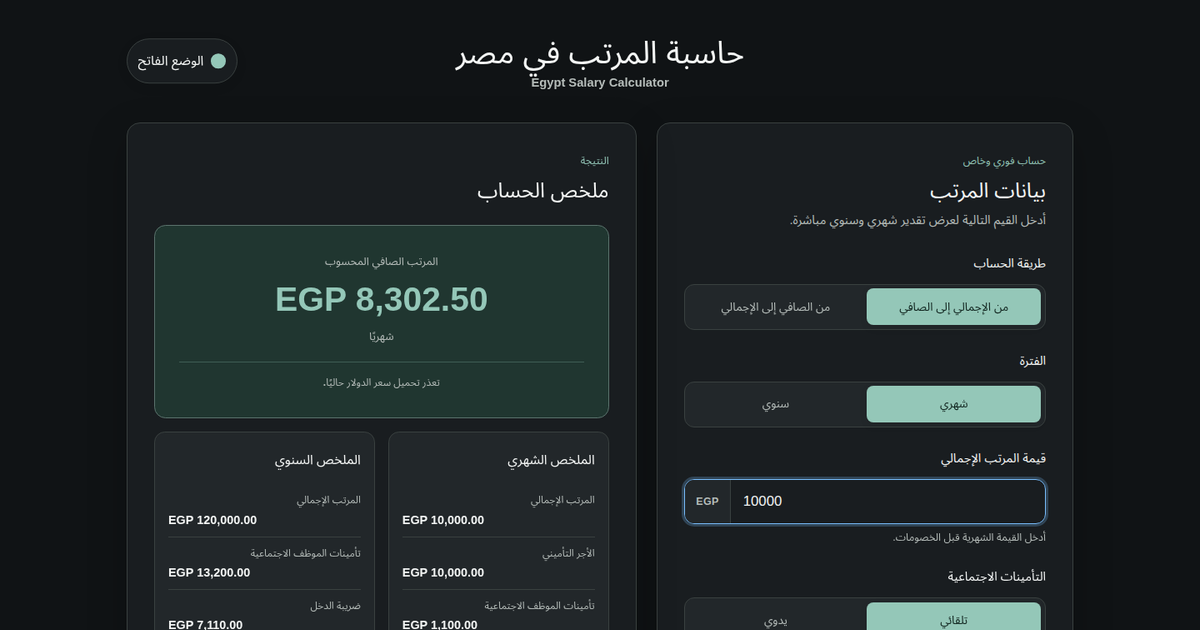
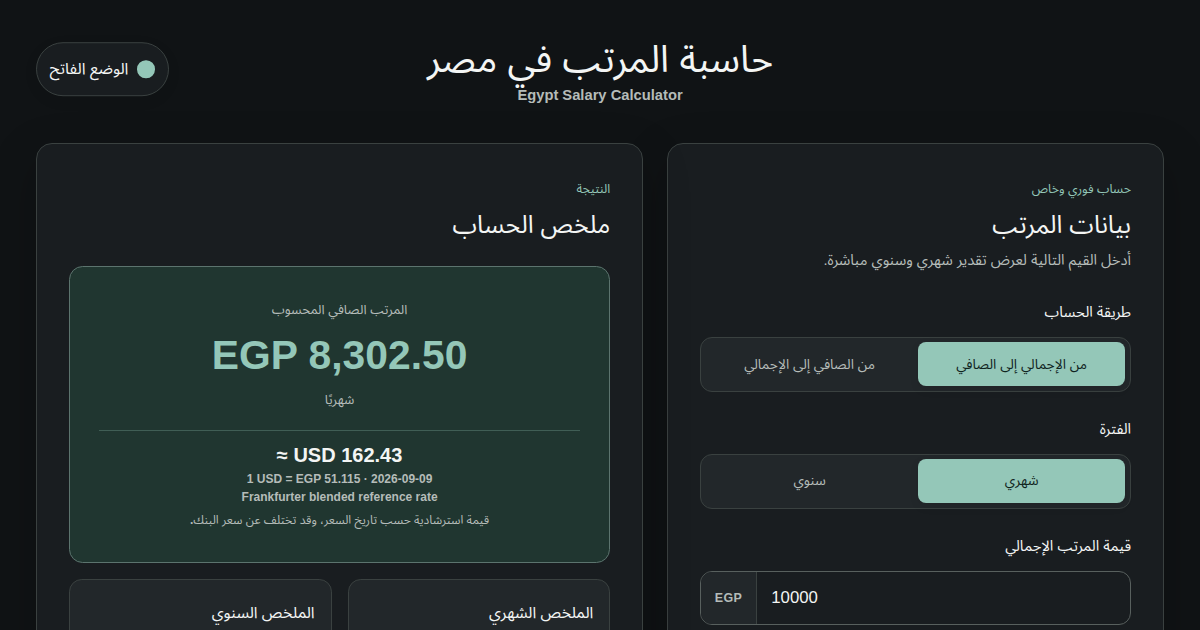
Show the working USD conversion in project and social screenshots

diff --git a/projects/egypt-salary-calculator/index.html b/projects/egypt-salary-calculator/index.html
@@ -56,7 +56,7 @@
   </header>
   <main id="main-content" class="main-inner" tabindex="-1"><header class="page-heading"><p class="eyebrow">Case study / Application delivery</p><h1>Egypt Salary Calculator<span class="gold">.</span></h1><p class="lede">An Arabic-first React application that makes salary estimates easier to inspect, with 80 verified tests and static delivery through GitHub Pages.</p><div class="case-meta"><span><strong>Status:</strong> 80 tests passing; deployed to GitHub Pages</span><span><strong>Role:</strong> Design, application &amp; delivery</span><span><strong>Reviewed:</strong> 9 Sep 2026</span></div><div class="actions"><a class="button button-primary" href="https://github.com/yossefseit/egypt-salary-calculator">View code <svg class="icon" width="24" height="24" viewBox="0 0 24 24" aria-hidden="true" focusable="false"><path d="M9 20c-5 1-5-3-7-3m14 6v-4a4 4 0 0 0-1-3c4-.5 6-2 6-6 0-2-1-3-2-4 .2-1 .2-3-.3-4-2 0-4 1-5 2a14 14 0 0 0-4 0C8 3 6 2 4 2c-.5 1-.5 3 0 4-1 1-2 2-2 4 0 4 2 5.5 6 6-.8 1-1 2-1 3v4"/></svg></a><a class="button" href="https://yossefseit.github.io/egypt-salary-calculator/">Open demo <svg class="icon" width="24" height="24" viewBox="0 0 24 24" aria-hidden="true" focusable="false"><path d="M14 3h7v7m-1-6-9 9M10 4H4v16h16v-6"/></svg></a><a class="text-action" href="https://github.com/yossefseit/egypt-salary-calculator/actions/runs/34402180941">Pages deployment <svg class="icon" width="24" height="24" viewBox="0 0 24 24" aria-hidden="true" focusable="false"><path d="M14 3h7v7m-1-6-9 9M10 4H4v16h16v-6"/></svg></a></div></header>
 <div class="case-layout"><article class="case-body">
-<section id="problem"><p class="eyebrow">01 / Problem</p><h2>Make the calculation understandable.</h2><p>Salary conversion is often presented as one unexplained number. This project exposes the implemented tax, insurance and deduction components in an Arabic right-to-left interface, with gross-to-net and net-to-gross modes and monthly or annual periods.</p><p>The delivery task is equally concrete: build the TypeScript application at its project path, run the sensitive calculations and interface checks, and publish only the resulting static bundle through GitHub Pages.</p><figure class="case-screenshot"><img src="/assets/salary-calculator.webp" width="1440" height="1301" alt="Local production build of the Arabic Egypt Salary Calculator, showing salary inputs and an itemized result in dark mode."><figcaption>Local production build captured during this review. The core EGP salary engine works without the optional reference-rate service.</figcaption></figure></section>
+<section id="problem"><p class="eyebrow">01 / Problem</p><h2>Make the calculation understandable.</h2><p>Salary conversion is often presented as one unexplained number. This project exposes the implemented tax, insurance and deduction components in an Arabic right-to-left interface, with gross-to-net and net-to-gross modes and monthly or annual periods.</p><p>The delivery task is equally concrete: build the TypeScript application at its project path, run the sensitive calculations and interface checks, and publish only the resulting static bundle through GitHub Pages.</p><figure class="case-screenshot"><img src="/assets/salary-calculator.png" width="1440" height="1301" alt="Live Arabic Egypt Salary Calculator showing salary inputs, an itemized EGP result and the dated USD conversion in dark mode."><figcaption>Production release captured on 9 September 2026. The core EGP salary engine works without the optional reference-rate service.</figcaption></figure></section>
 <section id="architecture"><p class="eyebrow">02 / Architecture</p><h2>Local calculations. Static delivery. Reference rates.</h2><figure class="architecture-figure"><a href="/assets/salary-architecture.svg"><img src="/assets/salary-architecture.svg" width="1200" height="760" loading="lazy" alt="GitHub Actions validates and builds the React application, uploads the dist directory as a Pages artifact and deploys it to the project site. Salary calculations run locally in the browser, which fetches a dated USD/EGP rate directly from Frankfurter. A separately hosted .NET adapter can be selected explicitly but is not required by Pages."></a><figcaption>The Pages bundle sends no salary values to a server. A fixed browser request fetches the USD/EGP reference rate; source and rate date stay visible beside the conversion. Select the diagram for a scalable view.</figcaption></figure><div class="diagram-details three-column"><article class="panel"><p class="meta">Client</p><h3>React + TypeScript</h3><p>Vite builds for the <code>/egypt-salary-calculator/</code> project path. A pure domain module calculates locally and uses bounded binary search for net-to-gross estimates.</p></article><article class="panel"><p class="meta">Delivery</p><h3>GitHub Pages artifact</h3><p>The workflow runs the tests and build, uploads <code>dist/</code>, then uses Pages deployment permissions and a short-lived OIDC token. No Azure deployment credential is required.</p></article><article class="panel"><p class="meta">Reference rate</p><h3>Direct browser request</h3><p>Frankfurter supplies the dated USD/EGP reference rate through its public API. The client validates the currency pair, positive rate and date, and limits requests to eight seconds. The optional .NET adapter remains separate.</p></article></div></section>
 <section id="implementation"><p class="eyebrow">03 / Implementation</p><h2>Keep policy rules apart from interface state.</h2><p>The domain module contains progressive brackets, exemptions, insurance limits, period conversion and a documented rules effective date. The React layer handles validation, display, theme persistence and the optional exchange-rate state.</p><h3>Delivery path</h3><pre tabindex="0"><code>push to main
   → locked dependency install

diff --git a/content/salary.html b/content/salary.html
@@ -1,6 +1,6 @@
 <header class="page-heading"><p class="eyebrow">Case study / Application delivery</p><h1>Egypt Salary Calculator<span class="gold">.</span></h1><p class="lede">An Arabic-first React application that makes salary estimates easier to inspect, with 80 verified tests and static delivery through GitHub Pages.</p><div class="case-meta"><span><strong>Status:</strong> 80 tests passing; deployed to GitHub Pages</span><span><strong>Role:</strong> Design, application &amp; delivery</span><span><strong>Reviewed:</strong> 9 Sep 2026</span></div><div class="actions"><a class="button button-primary" href="https://github.com/yossefseit/egypt-salary-calculator">View code {{ICON:github}}</a><a class="button" href="https://yossefseit.github.io/egypt-salary-calculator/">Open demo {{ICON:external}}</a><a class="text-action" href="https://github.com/yossefseit/egypt-salary-calculator/actions/runs/34402180941">Pages deployment {{ICON:external}}</a></div></header>
 <div class="case-layout"><article class="case-body">
-<section id="problem"><p class="eyebrow">01 / Problem</p><h2>Make the calculation understandable.</h2><p>Salary conversion is often presented as one unexplained number. This project exposes the implemented tax, insurance and deduction components in an Arabic right-to-left interface, with gross-to-net and net-to-gross modes and monthly or annual periods.</p><p>The delivery task is equally concrete: build the TypeScript application at its project path, run the sensitive calculations and interface checks, and publish only the resulting static bundle through GitHub Pages.</p><figure class="case-screenshot"><img src="/assets/salary-calculator.webp" width="1440" height="1301" alt="Local production build of the Arabic Egypt Salary Calculator, showing salary inputs and an itemized result in dark mode."><figcaption>Local production build captured during this review. The core EGP salary engine works without the optional reference-rate service.</figcaption></figure></section>
+<section id="problem"><p class="eyebrow">01 / Problem</p><h2>Make the calculation understandable.</h2><p>Salary conversion is often presented as one unexplained number. This project exposes the implemented tax, insurance and deduction components in an Arabic right-to-left interface, with gross-to-net and net-to-gross modes and monthly or annual periods.</p><p>The delivery task is equally concrete: build the TypeScript application at its project path, run the sensitive calculations and interface checks, and publish only the resulting static bundle through GitHub Pages.</p><figure class="case-screenshot"><img src="/assets/salary-calculator.png" width="1440" height="1301" alt="Live Arabic Egypt Salary Calculator showing salary inputs, an itemized EGP result and the dated USD conversion in dark mode."><figcaption>Production release captured on 9 September 2026. The core EGP salary engine works without the optional reference-rate service.</figcaption></figure></section>
 <section id="architecture"><p class="eyebrow">02 / Architecture</p><h2>Local calculations. Static delivery. Reference rates.</h2><figure class="architecture-figure"><a href="/assets/salary-architecture.svg"><img src="/assets/salary-architecture.svg" width="1200" height="760" loading="lazy" alt="GitHub Actions validates and builds the React application, uploads the dist directory as a Pages artifact and deploys it to the project site. Salary calculations run locally in the browser, which fetches a dated USD/EGP rate directly from Frankfurter. A separately hosted .NET adapter can be selected explicitly but is not required by Pages."></a><figcaption>The Pages bundle sends no salary values to a server. A fixed browser request fetches the USD/EGP reference rate; source and rate date stay visible beside the conversion. Select the diagram for a scalable view.</figcaption></figure><div class="diagram-details three-column"><article class="panel"><p class="meta">Client</p><h3>React + TypeScript</h3><p>Vite builds for the <code>/egypt-salary-calculator/</code> project path. A pure domain module calculates locally and uses bounded binary search for net-to-gross estimates.</p></article><article class="panel"><p class="meta">Delivery</p><h3>GitHub Pages artifact</h3><p>The workflow runs the tests and build, uploads <code>dist/</code>, then uses Pages deployment permissions and a short-lived OIDC token. No Azure deployment credential is required.</p></article><article class="panel"><p class="meta">Reference rate</p><h3>Direct browser request</h3><p>Frankfurter supplies the dated USD/EGP reference rate through its public API. The client validates the currency pair, positive rate and date, and limits requests to eight seconds. The optional .NET adapter remains separate.</p></article></div></section>
 <section id="implementation"><p class="eyebrow">03 / Implementation</p><h2>Keep policy rules apart from interface state.</h2><p>The domain module contains progressive brackets, exemptions, insurance limits, period conversion and a documented rules effective date. The React layer handles validation, display, theme persistence and the optional exchange-rate state.</p><h3>Delivery path</h3><pre tabindex="0"><code>push to main
   → locked dependency install

diff --git a/index.html b/index.html
@@ -105,7 +105,7 @@
   <aside class="context-panel" aria-label="Current work and training"><img class="context-mark" src="/assets/favicon.svg" width="45" height="45" alt=""><div class="context-item"><span class="meta">In practice</span><strong>Electrolux Group</strong><p>IT Infrastructure Analyst<br>Factory &amp; office operations</p></div><div class="context-item"><span class="meta">In progress</span><strong>DevOps Engineering Diploma</strong><p>Route Academy<br>Aug 2026 → Feb 2027 expected</p></div></aside>
 </section>
 <section class="section" id="projects" aria-labelledby="selected-title"><div class="section-heading"><h2 id="selected-title"><span class="section-number">01 —</span>Selected engineering work</h2><a href="/projects/">View collection <svg class="icon" width="24" height="24" viewBox="0 0 24 24" aria-hidden="true" focusable="false"><path d="M4 12h16m-6-6 6 6-6 6"/></svg></a></div><div class="project-grid"><article class="project-card project-featured">
-  <div class="project-art"><img src="/assets/salary-calculator.webp" width="960" height="500" fetchpriority="high" alt="Local Egypt Salary Calculator application showing salary inputs and a calculated breakdown"></div>
+  <div class="project-art"><img src="/assets/salary-calculator.png" width="960" height="500" fetchpriority="high" alt="Live Egypt Salary Calculator showing EGP results and a dated USD reference conversion"></div>
   <div class="project-content"><p class="eyebrow">01 / Application delivery</p><h3>Egypt Salary Calculator</h3><p>Make gross-to-net salary calculations transparent, then ship a tested static application through GitHub Pages.</p><div class="stack"><span>React</span><span>TypeScript</span><span>GitHub Pages</span><span>GitHub Actions</span></div><span class="status">80 tests passing; deployed to GitHub Pages</span>
   <div class="project-links"><a href="/projects/egypt-salary-calculator/">Case study <svg class="icon" width="24" height="24" viewBox="0 0 24 24" aria-hidden="true" focusable="false"><path d="M4 12h16m-6-6 6 6-6 6"/></svg></a><a href="https://github.com/yossefseit/egypt-salary-calculator" class="">Code<svg class="icon" width="24" height="24" viewBox="0 0 24 24" aria-hidden="true" focusable="false"><path d="M14 3h7v7m-1-6-9 9M10 4H4v16h16v-6"/></svg></a><a href="https://github.com/yossefseit/egypt-salary-calculator/actions/runs/34402180941" class="">Pipeline evidence<svg class="icon" width="24" height="24" viewBox="0 0 24 24" aria-hidden="true" focusable="false"><path d="M14 3h7v7m-1-6-9 9M10 4H4v16h16v-6"/></svg></a></div></div></article><article class="project-card">
   <div class="project-art"><img src="/assets/hub-card.svg" width="960" height="500" loading="lazy" alt="Hub peered with separate application and data spokes; direct cross-spoke transit is blocked"></div>

diff --git a/projects/index.html b/projects/index.html
@@ -56,7 +56,7 @@
   </header>
   <main id="main-content" class="main-inner" tabindex="-1"><header class="page-heading"><p class="eyebrow">Selected work / 2026</p><h1>Engineering, made inspectable<span class="gold">.</span></h1><p class="lede">Three projects, from application delivery to network architecture and governance. Each brings the implementation, decisions and validation evidence into view.</p></header>
 <section aria-labelledby="flagships-title"><h2 id="flagships-title" class="sr-only">Flagship projects</h2><div class="project-grid"><article class="project-card project-featured">
-  <div class="project-art"><img src="/assets/salary-calculator.webp" width="960" height="500" fetchpriority="high" alt="Local Egypt Salary Calculator application showing salary inputs and a calculated breakdown"></div>
+  <div class="project-art"><img src="/assets/salary-calculator.png" width="960" height="500" fetchpriority="high" alt="Live Egypt Salary Calculator showing EGP results and a dated USD reference conversion"></div>
   <div class="project-content"><p class="eyebrow">01 / Application delivery</p><h3>Egypt Salary Calculator</h3><p>Make gross-to-net salary calculations transparent, then ship a tested static application through GitHub Pages.</p><div class="stack"><span>React</span><span>TypeScript</span><span>GitHub Pages</span><span>GitHub Actions</span></div><span class="status">80 tests passing; deployed to GitHub Pages</span>
   <div class="project-links"><a href="/projects/egypt-salary-calculator/">Case study <svg class="icon" width="24" height="24" viewBox="0 0 24 24" aria-hidden="true" focusable="false"><path d="M4 12h16m-6-6 6 6-6 6"/></svg></a><a href="https://github.com/yossefseit/egypt-salary-calculator" class="">Code<svg class="icon" width="24" height="24" viewBox="0 0 24 24" aria-hidden="true" focusable="false"><path d="M14 3h7v7m-1-6-9 9M10 4H4v16h16v-6"/></svg></a><a href="https://github.com/yossefseit/egypt-salary-calculator/actions/runs/34402180941" class="">Pipeline evidence<svg class="icon" width="24" height="24" viewBox="0 0 24 24" aria-hidden="true" focusable="false"><path d="M14 3h7v7m-1-6-9 9M10 4H4v16h16v-6"/></svg></a></div></div></article><article class="project-card">
   <div class="project-art"><img src="/assets/hub-card.svg" width="960" height="500" loading="lazy" alt="Hub peered with separate application and data spokes; direct cross-spoke transit is blocked"></div>

diff --git a/scripts/build_site.py b/scripts/build_site.py
@@ -36,7 +36,7 @@ def icon(name):
 def ext(url,label,cls=''):
  return f'<a href="{escape(url)}" class="{cls}">{label}{icon("external")}</a>'
 PROJECTS = [
- dict(slug='egypt-salary-calculator',name='Egypt Salary Calculator',category='01 / Application delivery',problem='Make gross-to-net salary calculations transparent, then ship a tested static application through GitHub Pages.',stack=['React','TypeScript','GitHub Pages','GitHub Actions'],status='80 tests passing; deployed to GitHub Pages',image='salary-calculator.webp',alt='Local Egypt Salary Calculator application showing salary inputs and a calculated breakdown',pipeline='https://github.com/yossefseit/egypt-salary-calculator/actions/runs/34402180941',pipeline_label='Pipeline evidence'),
+ dict(slug='egypt-salary-calculator',name='Egypt Salary Calculator',category='01 / Application delivery',problem='Make gross-to-net salary calculations transparent, then ship a tested static application through GitHub Pages.',stack=['React','TypeScript','GitHub Pages','GitHub Actions'],status='80 tests passing; deployed to GitHub Pages',image='salary-calculator.png',alt='Live Egypt Salary Calculator showing EGP results and a dated USD reference conversion',pipeline='https://github.com/yossefseit/egypt-salary-calculator/actions/runs/34402180941',pipeline_label='Pipeline evidence'),
  dict(slug='azure-secure-hub-spoke',name='Secure Azure Hub-and-Spoke Lab',category='02 / Network architecture',problem='Define segmented Azure networks and private Blob access with explicit routing, DNS and lifecycle controls.',stack=['Azure networking','Bicep','Private Link','Bash'],status='Lab: CI validated; Azure deployment pending',image='hub-card.svg',alt='Hub peered with separate application and data spokes; direct cross-spoke transit is blocked',pipeline='https://github.com/yossefseit/azure-secure-hub-spoke/actions/runs/30944553717'),
  dict(slug='azure-governance-automation',name='Azure Governance Automation Lab',category='03 / Governance as code',problem='Make subscription guardrails repeatable through audit-first policy, scoped access, budgets and protected cleanup.',stack=['Azure Policy','RBAC','Bicep','PowerShell'],status='Lab: CI validated; Azure deployment pending',image='governance-card.svg',alt='Azure subscription with policy, access, budget and resource-lock controls',pipeline='https://github.com/yossefseit/azure-governance-automation/actions/runs/31267342614')
 ]
